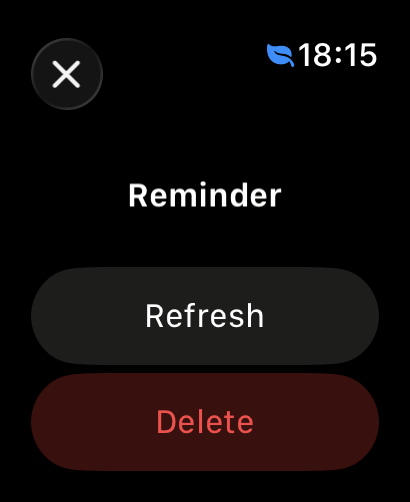
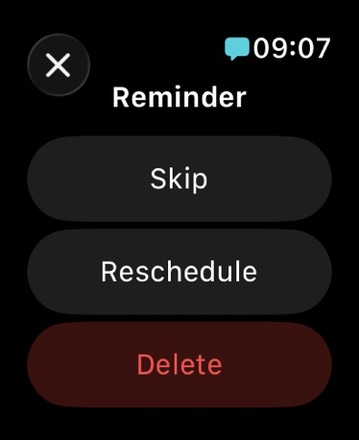
Add iPad screenshot, retire stale Apple Watch list shot

diff --git a/templates/singlethread.html b/templates/singlethread.html
@@ -54,16 +54,17 @@
              class="w-full rounded-lg border border-neutral-700">
         <figcaption class="text-muted text-sm mt-2 text-center">Complete or skip</figcaption>
     </figure>
+    <figure class="card m-0 flex-1 basis-[10rem] max-w-[14rem] p-3">
+        <img src="{{ asset_url('singlethread-shot-ipad.jpg') }}" alt="One reminder at a time on iPad"
+             class="w-full rounded-lg border border-neutral-700">
+        <figcaption class="text-muted text-sm mt-2 text-center">On iPad</figcaption>
+    </figure>
 </div>
 
 <h2 class="heading-subsection">On your wrist</h2>
 <div class="flex justify-center gap-6">
     <div class="card max-w-[12rem] p-3">
-        <img src="{{ asset_url('singlethread-watch-list.png') }}" alt="Apple Watch showing a reminder with Complete and Skip buttons"
-             class="w-full rounded-lg border border-neutral-700">
-    </div>
-    <div class="card max-w-[12rem] p-3">
-        <img src="{{ asset_url('singlethread-watch-detail.png') }}" alt="Apple Watch showing Refresh and Delete actions"
+        <img src="{{ asset_url('singlethread-watch-detail.png') }}" alt="Apple Watch showing Skip, Reschedule, and Delete actions"
              class="w-full rounded-lg border border-neutral-700">
     </div>
 </div>

diff --git a/src/interfaces/routes.rs b/src/interfaces/routes.rs
@@ -219,7 +219,7 @@ mod tests {
             ("/static/singlethread-shot-main.jpg", "image/jpeg"),
             ("/static/singlethread-shot-settings.jpg", "image/jpeg"),
             ("/static/singlethread-shot-swipe.jpg", "image/jpeg"),
-            ("/static/singlethread-watch-list.png", "image/png"),
+            ("/static/singlethread-shot-ipad.jpg", "image/jpeg"),
             ("/static/singlethread-watch-detail.png", "image/png"),
         ];
         for (path, content_type) in cases {
@@ -242,6 +242,18 @@ mod tests {
                 "{path}"
             );
         }
+    }
+
+    #[tokio::test]
+    async fn retired_singlethread_watch_list_shot_returns_404() {
+        let addr = start_app().await;
+        let client = test_client();
+        let res = client
+            .get(format!("http://{addr}/static/singlethread-watch-list.png"))
+            .send()
+            .await
+            .expect("request should complete");
+        assert_eq!(res.status(), StatusCode::NOT_FOUND);
     }
 
     #[tokio::test]

diff --git a/src/interfaces/handlers/singlethread/web.rs b/src/interfaces/handlers/singlethread/web.rs
@@ -194,8 +194,9 @@ mod tests {
         // a list screen, and the action screen is dark mode with buttons
         assert!(body.contains(r#"alt="The SingleThread settings list""#));
         assert!(body.contains("Complete or skip"));
-        assert!(body.contains(r#"<img src="/static/singlethread-watch-list.png?v="#));
+        assert!(body.contains(r#"<img src="/static/singlethread-shot-ipad.jpg?v="#));
         assert!(body.contains(r#"<img src="/static/singlethread-watch-detail.png?v="#));
+        assert!(body.contains("Apple Watch showing Skip, Reschedule, and Delete actions"));
         assert!(body.contains(r#"<img src="/static/singlethread-icon.png?v="#));
         assert!(body.contains(r#"<a href="/">Home</a>"#));
         assert!(body.contains(r#"<a href="/singlethread" class="active">SingleThread</a>"#));
